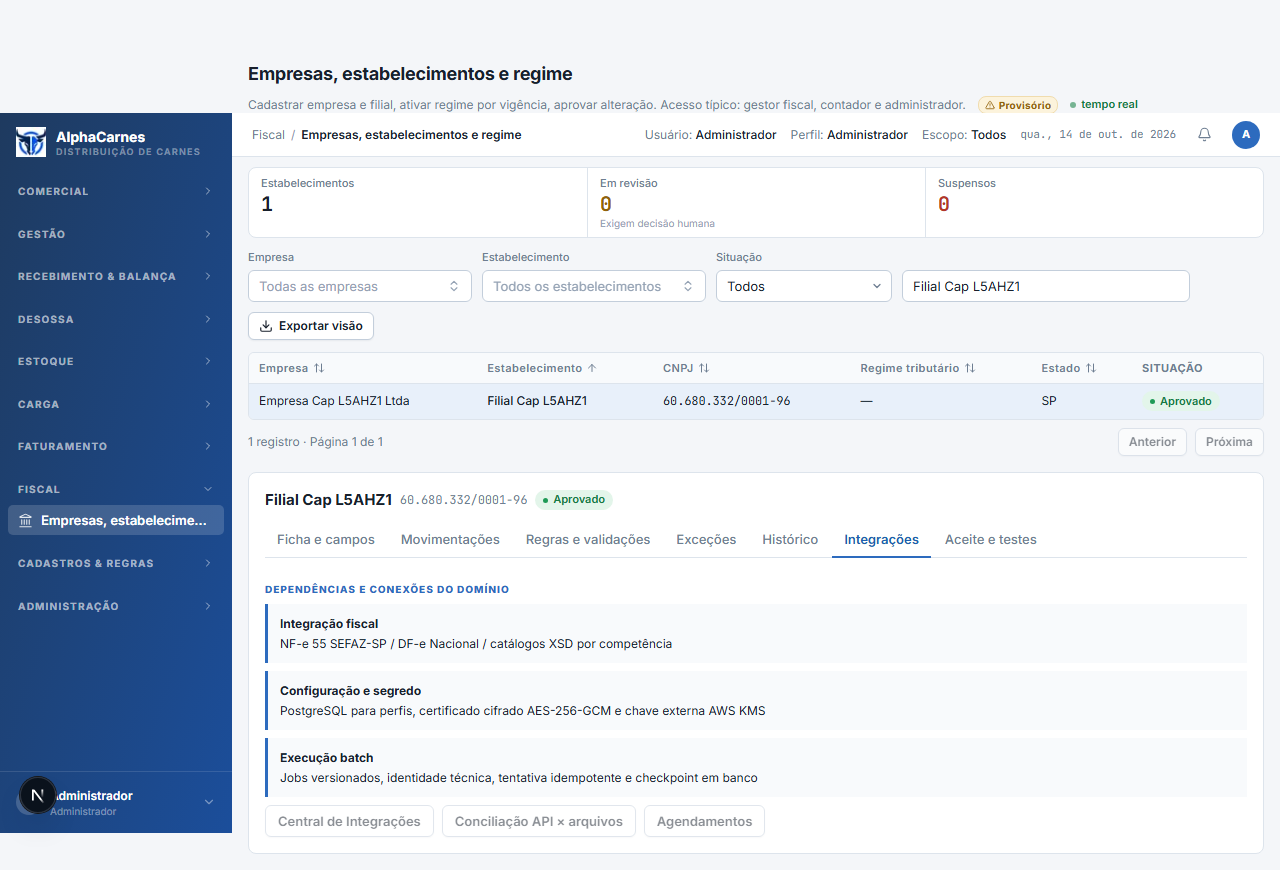
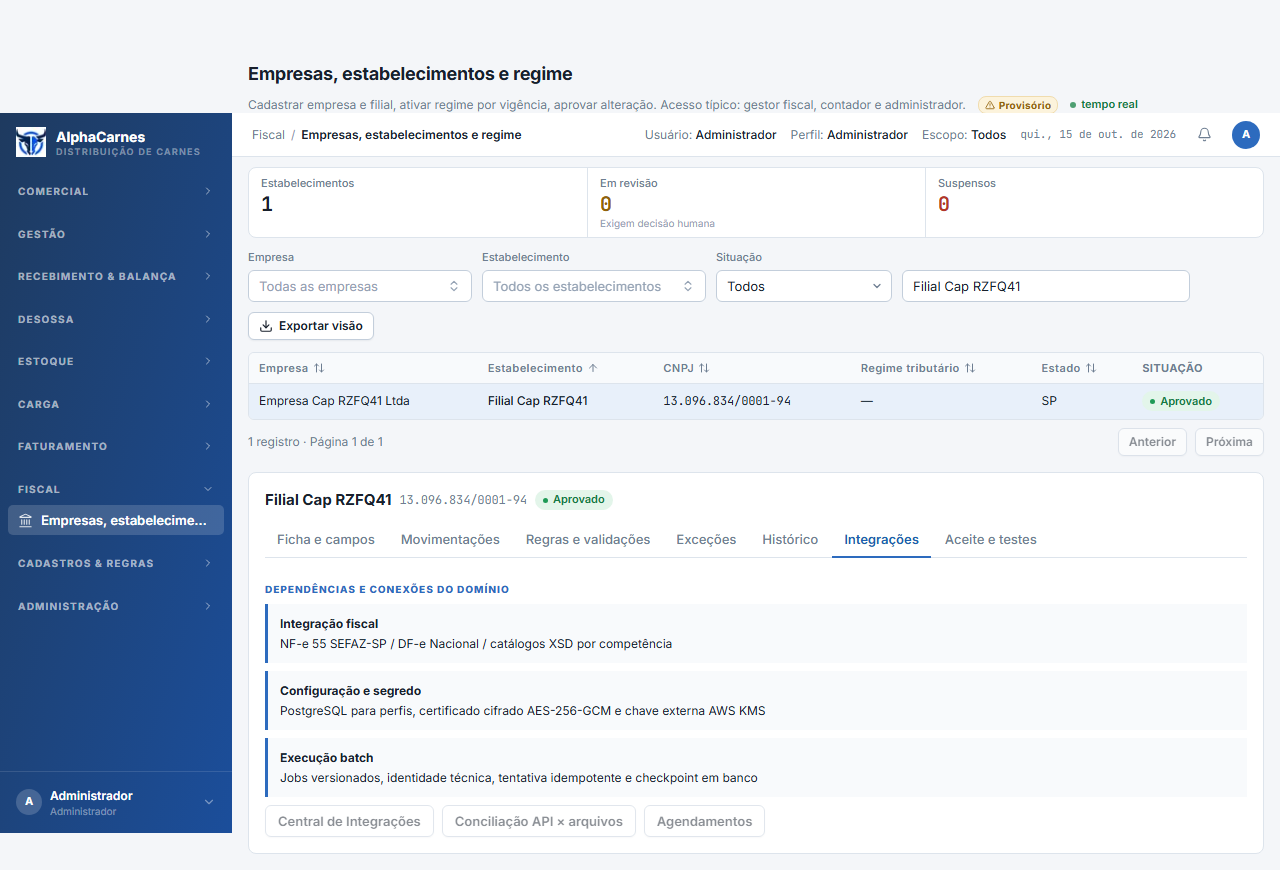
docs(e01-t01): regera evidências app sem o indicador do next dev
### Descrição Detalhada:
O spec de captura injeta CSS que oculta `nextjs-portal` antes de cada screenshot e as 16
imagens app-*.png foram regeradas.

### Motivo da Mudança:
Os PNG mostravam o indicador "N" do next dev (menor 5 do Portão 2).

### Impacto:
Somente evidências e spec de captura; produto inalterado.

diff --git a/app/frontend/e2e/capture-e01-t01-evidencias.spec.ts b/app/frontend/e2e/capture-e01-t01-evidencias.spec.ts
@@ -71,6 +71,8 @@ const detalhe = (page: Page): Locator => page.getByRole('region', { name: 'Detal
 async function capturar(page: Page, arquivo: string, chave: Locator): Promise<void> {
   await expect(chave, `elemento-chave ausente antes de ${arquivo}`).toBeVisible({ timeout: 30_000 });
   await chave.scrollIntoViewIfNeeded();
+  // Oculta o indicador do `next dev` (portal "N") sem alterar o produto.
+  await page.addStyleTag({ content: 'nextjs-portal { display: none !important; }' });
   await page.screenshot({ path: path.join(OUT_DIR, arquivo), fullPage: true });
 }
 
